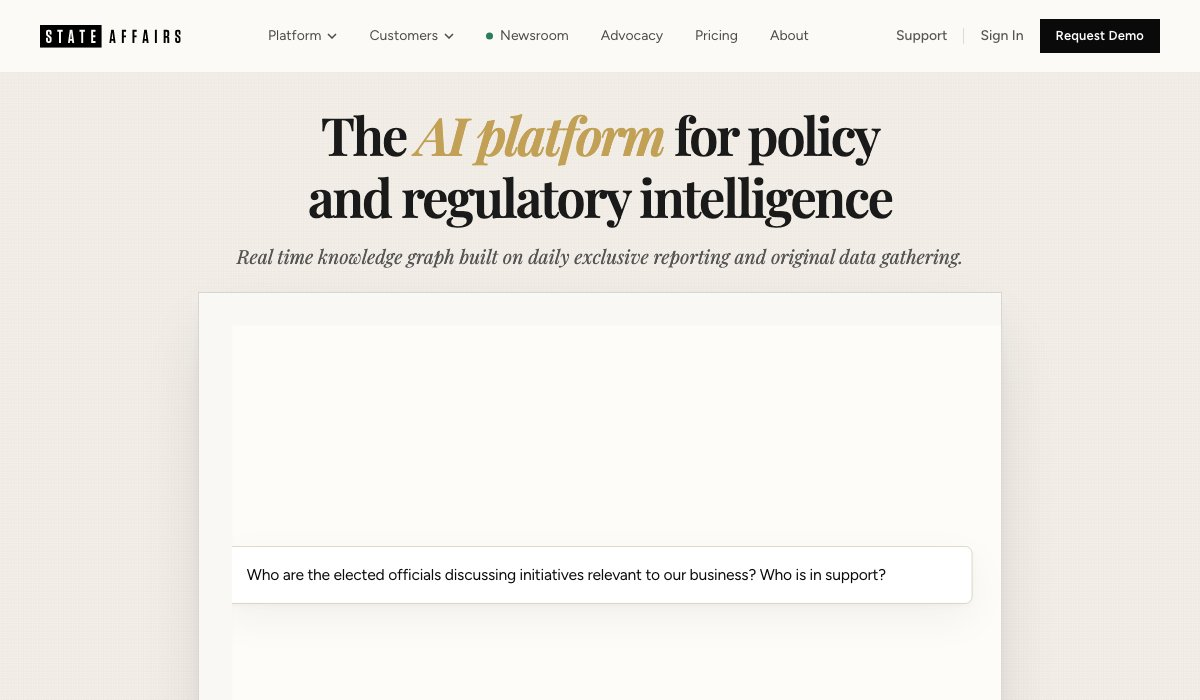
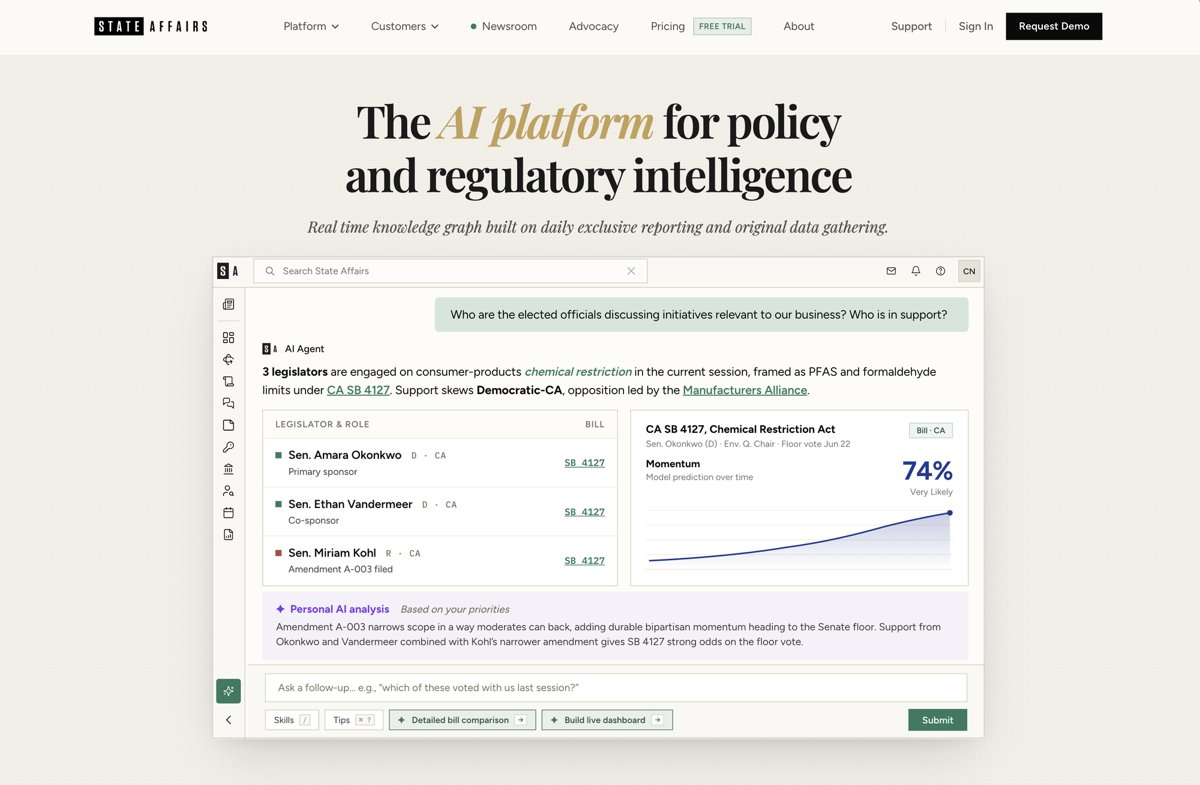
feat(projects): use product screenshot for State Affairs card

diff --git a/index.html b/index.html
@@ -84,7 +84,7 @@
           </div>
           <div class="project-overall">
             <div class="project-pic">
-              <img src="assets/state-affairs.jpg" width="1200" height="700" loading="lazy" decoding="async" alt="State Affairs homepage: The AI platform for policy and regulatory intelligence">
+              <img src="assets/state-affairs.jpg" width="1200" height="785" loading="lazy" decoding="async" alt="State Affairs Pro: the AI agent answers a question about legislators, with a bill momentum chart and personal AI analysis">
             </div>
             <div class="project-detail">
               <p class="project-tagline">AI platform for policy and regulatory intelligence</p>
